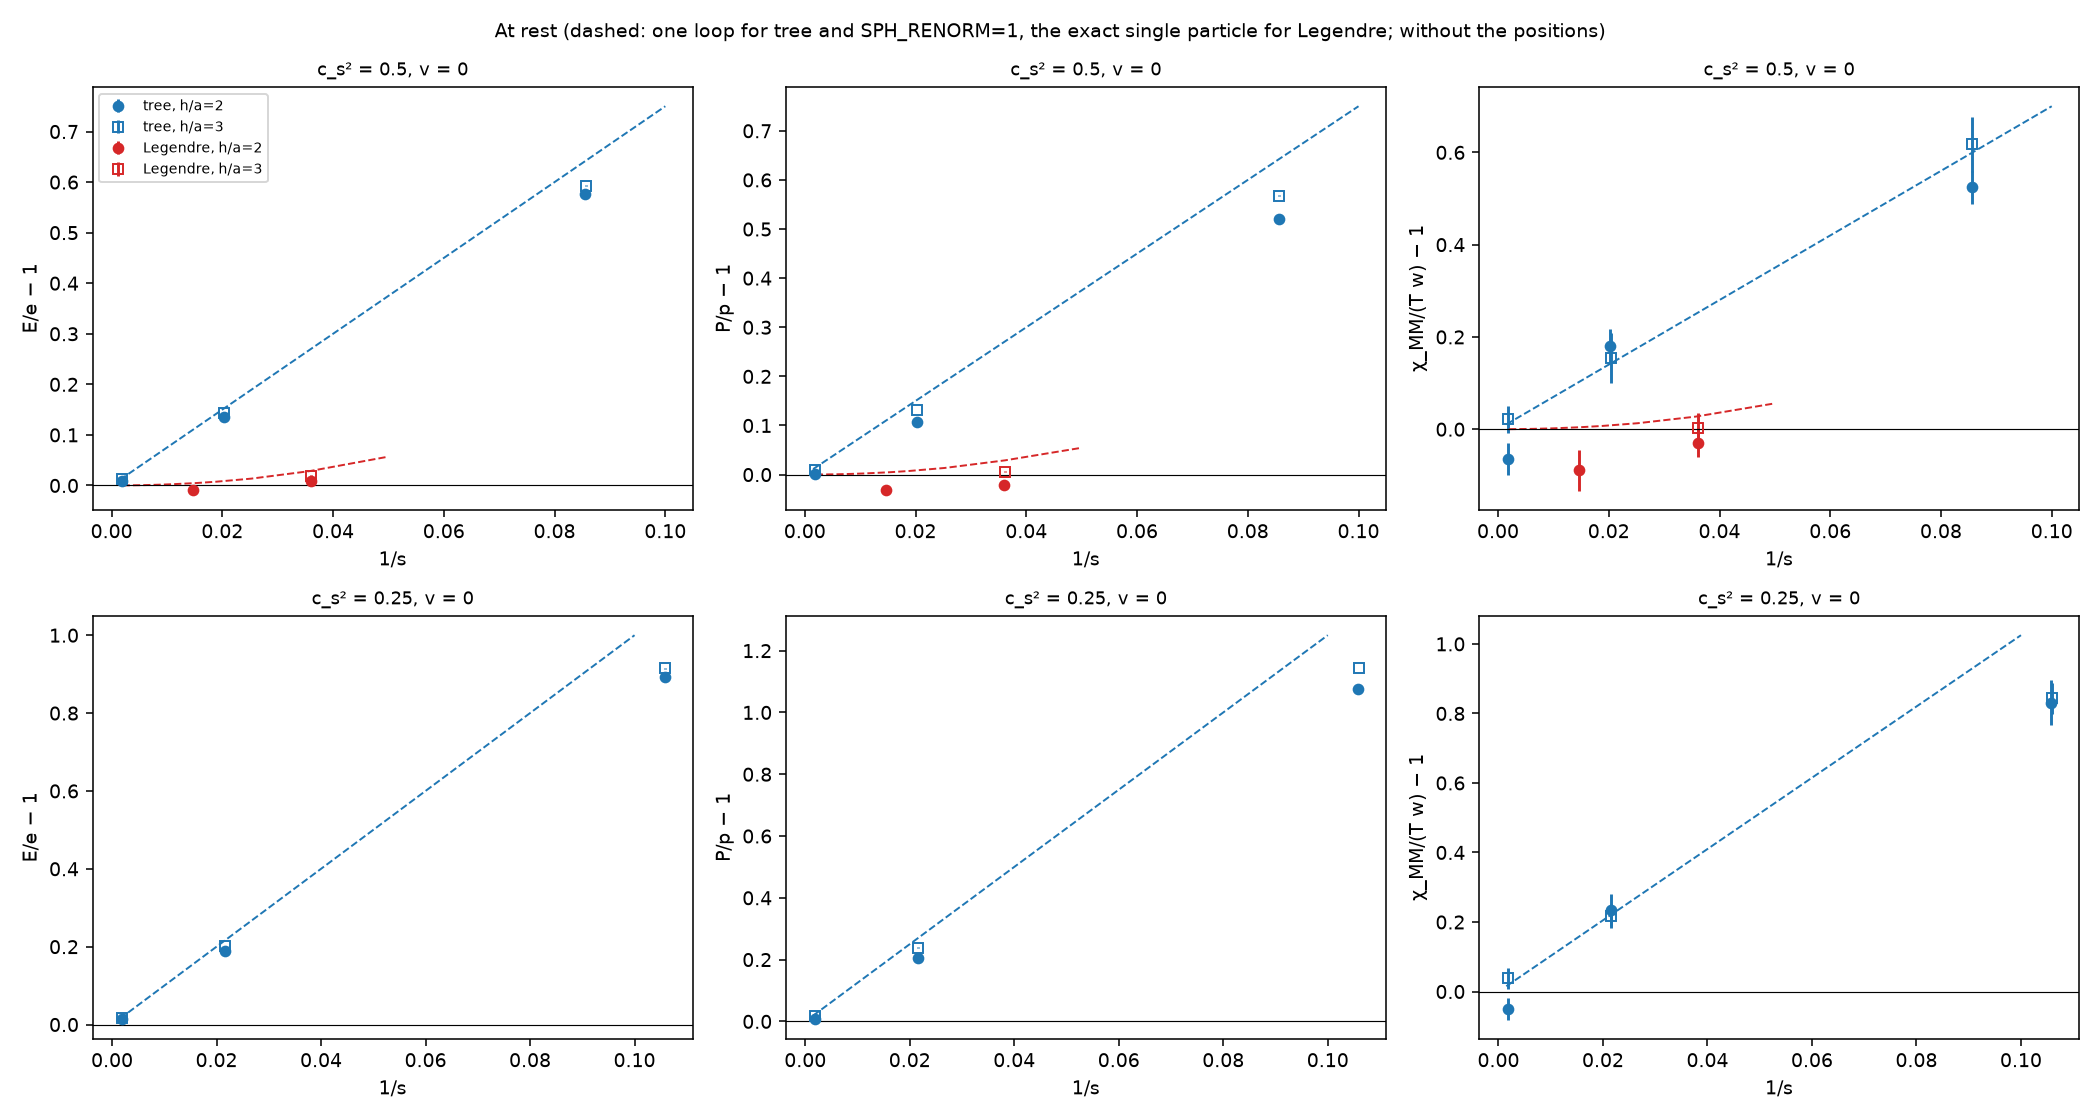
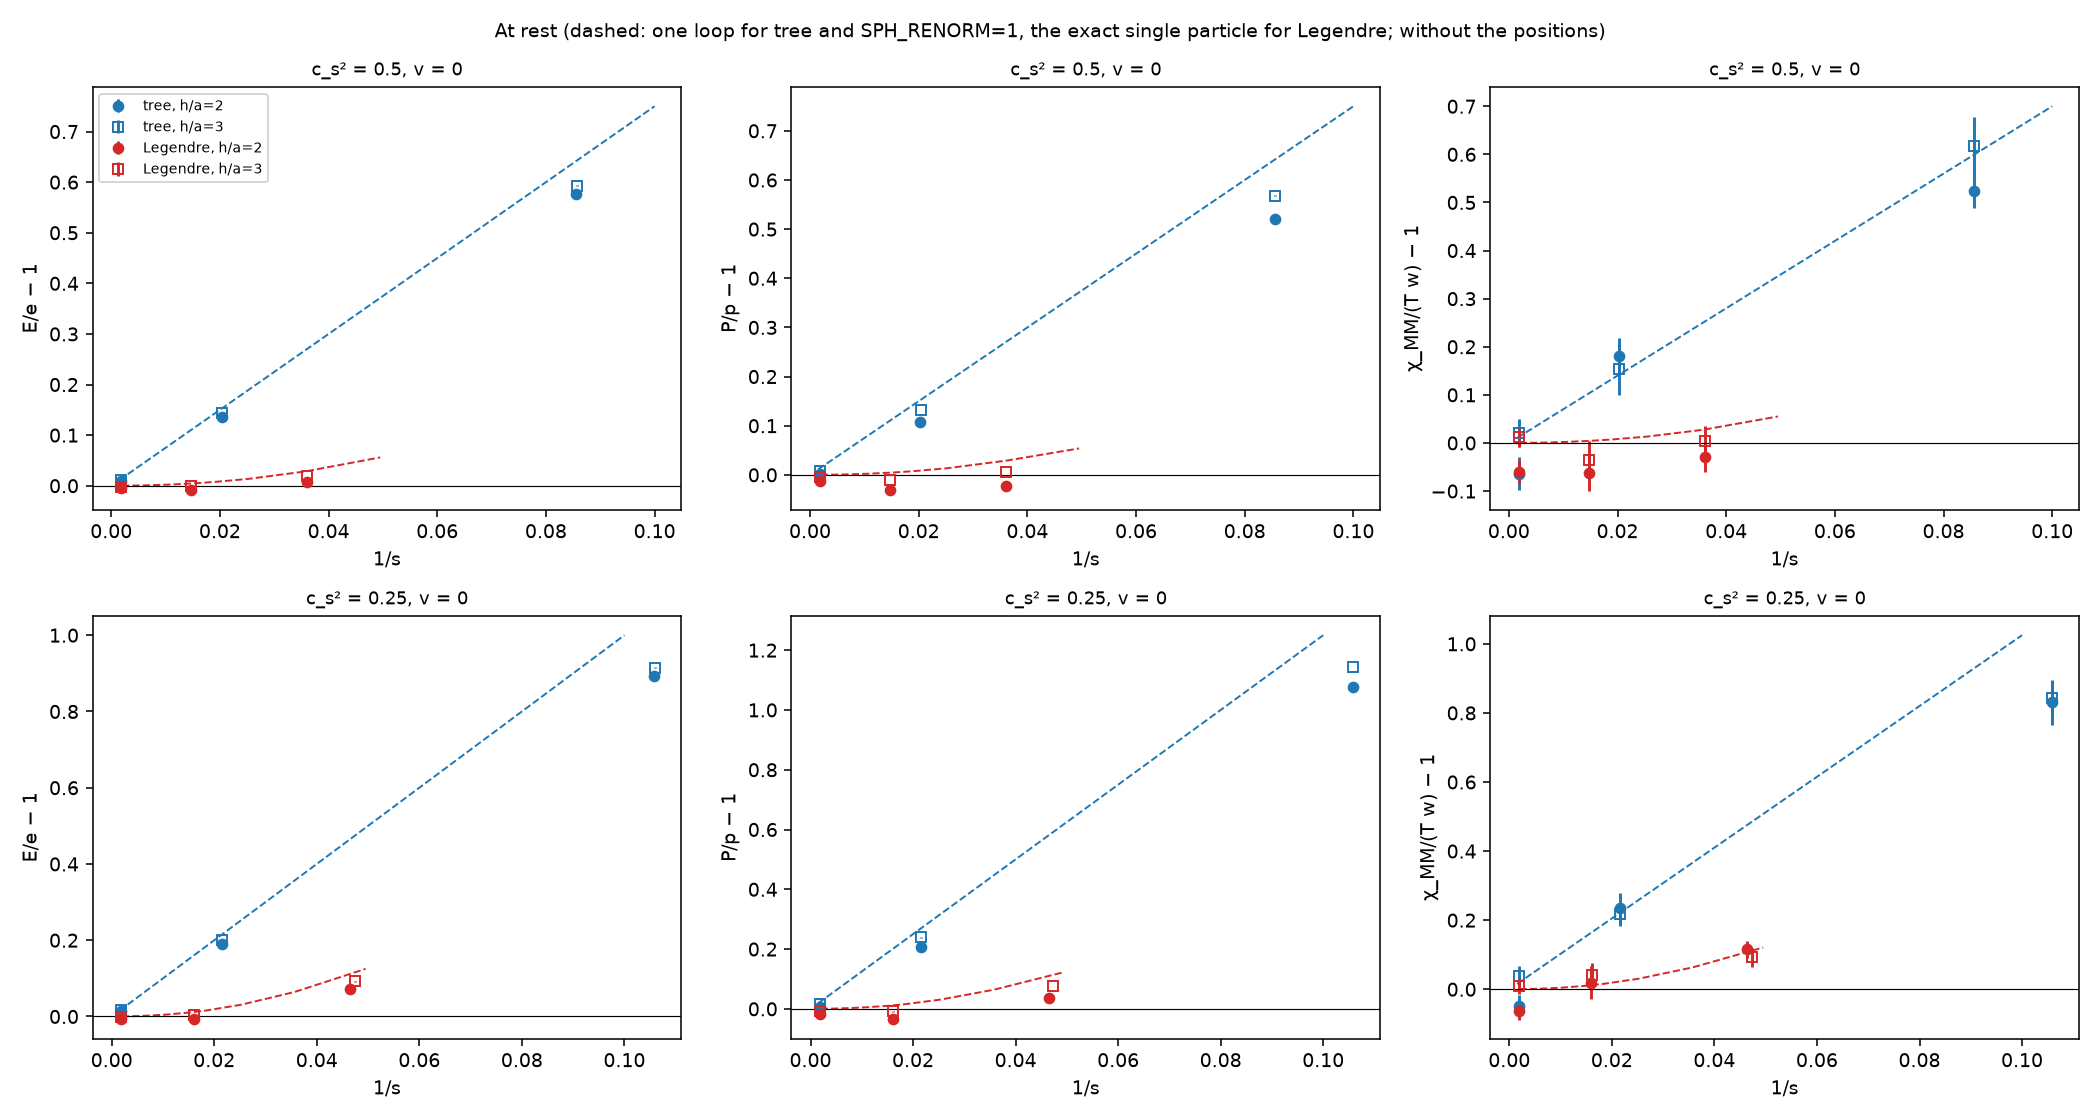
eos_legendre: campaign done; results, table and final figures in legendre_plan.tex; LOG

diff --git a/docs/legendre_plan.tex b/docs/legendre_plan.tex
@@ -463,10 +463,97 @@ stochastic step on, $S_0=10^5$, $t=20$) drifts by $\Delta H/H=+4.8\times10^{-5}$
 
 \subsection{The campaign}
 
-\emph{Running.}  The tree-level and \texttt{SPH\_RENORM=1} lines are final.  Every Legendre line is being rerun with the fixes of
-items (vi) and (vii) (job 61838799, the rest packed on regular nodes, job 61851444); the figures below are regenerated as its runs
-finish, and so far show the Legendre Hamiltonian (red) only at rest, at $c_s^2=1/2$, $s_a=16$ and (partly) $s_a=54$.  The analysis,
-the table against the expectations, and the reading of the figures follow when the rerun is done.
+\paragraph{Runs and cost.}  As planned (\Sect{sec:campaign}): $L=0.45$, 8 seeds of 300 updates per line, 54 lines.  The first submission, job
+61825274 (432 tasks, shared), ran the tree-level and \texttt{SPH\_RENORM=1} lines; they are final.  Its Legendre lines were rerun twice, after the fixes
+(vii) (job 61831354, the 14 lines at $c_s^2=1/4$) and (vi) (all 24 Legendre lines: job 61838799 on the shared QOS, which started only two tasks at a
+time, and job 61852069, the remaining 172 tasks packed on three regular nodes with \nolinkurl{nersc/node.sh}, 18 minutes).  In all about 2.1 node-hours.
+The earlier Legendre output is kept in \texttt{\$SCRATCH/sph/eos\_legendre/old\_*}.
+
+\paragraph{The solves.}  Over the $4.6\times10^{10}$ solves of the Legendre lines, Newton failed to converge 425 times, 415 of them at $c_s^2=1/4$,
+$s_a=16$ (the next most: 3).  Four kept configurations, all at $c_s^2=1/4$, $s_a=16$, $h/a=3$ (three at rest, one in motion), have a particle with no
+state when $E$ is measured ($E=$ NaN, $H$ finite); the per-seed summary of \nolinkurl{examples/eos_measure.jl} is then NaN, so those lines average 6 (at
+rest) and 7 (in motion) of their 8 seeds.  The acceptance is $0.98$--$1.0$ everywhere except $c_s^2=1/4$, $s_a=16$ at rest: $0.95$ ($h/a=2$) and
+$0.89$ ($h/a=3$, seeds $0.78$--$0.94$).
+
+\paragraph{The table.}  For each Legendre line: the measured entropy per particle $s=(1+c_s^2)\sigma/c_s^2$; the measured value and the exact single-particle
+quadrature (\nolinkurl{examples/renorm_quadrature_legendre.py}, interpolated in $1/s$ to the measured $s$; \nolinkurl{docs/figs/legendre_quadrature.csv}),
+which leaves out the positions; $R$ also for \texttt{SPH\_RENORM=1} at the same $s_a$, $h/a$; and two entries of the susceptibility relative to the target,
+with the jackknife error in the last digits.  At $v=0.8$ the pressure column is $T^{yy}/p-1$.  The full table, all lines and entries:
+\nolinkurl{docs/figs/legendre_table.csv}.
+\begin{center}
+\scriptsize
+\resizebox{\linewidth}{!}{\begin{tabular}{cccc c cc cc ccc cc cc}
+\toprule
+$c_s^2$ & $v$ & $s_a$ & $h/a$ & $s$ & \multicolumn{2}{c}{$E/e-1$} & \multicolumn{2}{c}{$P/p-1$} & \multicolumn{3}{c}{$R$} & \multicolumn{2}{c}{$(\partial E/\partial T)_v$} & \multicolumn{2}{c}{$(\partial M/\partial v)_T$}\\
+ & & & & & meas. & quad. & meas. & quad. & meas. & quad. & ren1 & meas. & quad. & meas. & quad. \\
+\midrule
+0.5 & 0 & 16 & 2 & 28 & $+0.008$ & $+0.029$ & $-0.022$ & $+0.029$ & -- & -- & -- & $-0.09(4)$ & $-0.01$ & $-0.03(3)$ & $+0.03$ \\
+0.5 & 0 & 16 & 3 & 28 & $+0.020$ & $+0.029$ & $+0.006$ & $+0.029$ & -- & -- & -- & $-0.07(5)$ & $-0.01$ & $+0.00(3)$ & $+0.03$ \\
+0.5 & 0 & 54 & 2 & 68 & $-0.009$ & $+0.004$ & $-0.032$ & $+0.004$ & -- & -- & -- & $-0.00(5)$ & $-0.00$ & $-0.06(4)$ & $+0.00$ \\
+0.5 & 0 & 54 & 3 & 68 & $-0.001$ & $+0.004$ & $-0.011$ & $+0.004$ & -- & -- & -- & $-0.01(4)$ & $-0.00$ & $-0.04(4)$ & $+0.00$ \\
+0.5 & 0 & 541 & 2 & 561 & $-0.004$ & $+0.000$ & $-0.013$ & $+0.000$ & -- & -- & -- & $-0.02(3)$ & $-0.00$ & $-0.06(2)$ & $+0.00$ \\
+0.5 & 0 & 541 & 3 & 561 & $-0.002$ & $+0.000$ & $-0.005$ & $+0.000$ & -- & -- & -- & $-0.02(3)$ & $-0.00$ & $+0.01(2)$ & $+0.00$ \\
+\hline
+0.5 & 0.8 & 16 & 2 & 28 & $-0.006$ & $+0.045$ & $-0.032$ & $+0.033$ & $+0.0032$ & $+0.0033$ & $+0.0004$ & $-0.01(4)$ & $-0.04$ & $+0.00(5)$ & $-0.05$ \\
+0.5 & 0.8 & 16 & 3 & 28 & $+0.002$ & $+0.045$ & $-0.009$ & $+0.033$ & $+0.0014$ & $+0.0034$ & $-0.0016$ & $+0.02(4)$ & $-0.04$ & $+0.00(3)$ & $-0.05$ \\
+0.5 & 0.8 & 54 & 2 & 68 & $-0.008$ & $+0.005$ & $-0.026$ & $+0.005$ & $+0.0022$ & $+0.0001$ & $+0.0013$ & $+0.03(3)$ & $-0.00$ & $+0.05(3)$ & $-0.00$ \\
+0.5 & 0.8 & 54 & 3 & 68 & $-0.003$ & $+0.005$ & $-0.011$ & $+0.005$ & $+0.0010$ & $+0.0001$ & $-0.0000$ & $-0.01(5)$ & $-0.00$ & $-0.03(4)$ & $-0.00$ \\
+0.5 & 0.8 & 541 & 2 & 561 & $-0.003$ & $+0.000$ & $-0.010$ & $+0.000$ & $+0.0008$ & $+0.0000$ & $+0.0007$ & $-0.02(3)$ & $-0.00$ & $-0.01(3)$ & $-0.00$ \\
+0.5 & 0.8 & 541 & 3 & 561 & $-0.001$ & $+0.000$ & $-0.004$ & $+0.000$ & $+0.0003$ & $+0.0000$ & $+0.0002$ & $-0.01(4)$ & $-0.00$ & $-0.02(4)$ & $-0.00$ \\
+\hline
+0.25 & 0 & 16 & 2 & 22 & $+0.072$ & $+0.111$ & $+0.035$ & $+0.110$ & -- & -- & -- & $-0.02(2)$ & $-0.07$ & $+0.12(2)$ & $+0.11$ \\
+0.25 & 0 & 16 & 3 & 21 & $+0.092$ & $+0.116$ & $+0.076$ & $+0.114$ & -- & -- & -- & $-0.08(3)$ & $-0.07$ & $+0.09(3)$ & $+0.11$ \\
+0.25 & 0 & 54 & 2 & 62 & $-0.007$ & $+0.012$ & $-0.035$ & $+0.012$ & -- & -- & -- & $+0.03(3)$ & $-0.01$ & $+0.02(5)$ & $+0.01$ \\
+0.25 & 0 & 54 & 3 & 62 & $+0.003$ & $+0.012$ & $-0.009$ & $+0.012$ & -- & -- & -- & $+0.01(5)$ & $-0.01$ & $+0.04(3)$ & $+0.01$ \\
+0.25 & 0 & 541 & 2 & 555 & $-0.005$ & $+0.000$ & $-0.017$ & $+0.000$ & -- & -- & -- & $-0.03(2)$ & $-0.00$ & $-0.06(3)$ & $+0.00$ \\
+0.25 & 0 & 541 & 3 & 554 & $-0.002$ & $+0.000$ & $-0.007$ & $+0.000$ & -- & -- & -- & $-0.02(3)$ & $-0.00$ & $+0.01(2)$ & $+0.00$ \\
+\hline
+0.25 & 0.8 & 16 & 2 & 22 & $+0.011$ & $+0.140$ & $-0.021$ & $+0.106$ & $+0.0024$ & $+0.0078$ & -- & $-0.07(3)$ & $-0.08$ & $-0.04(3)$ & $-0.08$ \\
+0.25 & 0.8 & 16 & 3 & 21 & $+0.026$ & $+0.146$ & $+0.012$ & $+0.110$ & $+0.0010$ & $+0.0082$ & -- & $-0.02(4)$ & $-0.08$ & $+0.01(4)$ & $-0.09$ \\
+0.25 & 0.8 & 54 & 2 & 62 & $-0.011$ & $+0.013$ & $-0.034$ & $+0.012$ & $+0.0017$ & $+0.0003$ & -- & $+0.08(2)$ & $-0.01$ & $+0.08(2)$ & $-0.01$ \\
+0.25 & 0.8 & 54 & 3 & 62 & $-0.002$ & $+0.013$ & $-0.012$ & $+0.012$ & $+0.0007$ & $+0.0003$ & -- & $-0.05(2)$ & $-0.01$ & $-0.02(3)$ & $-0.01$ \\
+0.25 & 0.8 & 541 & 2 & 555 & $-0.004$ & $+0.000$ & $-0.013$ & $+0.000$ & $+0.0006$ & $+0.0000$ & -- & $-0.02(3)$ & $-0.00$ & $-0.01(3)$ & $-0.00$ \\
+0.25 & 0.8 & 541 & 3 & 554 & $-0.002$ & $+0.000$ & $-0.005$ & $+0.000$ & $+0.0003$ & $+0.0000$ & -- & $+0.00(4)$ & $-0.00$ & $-0.01(4)$ & $-0.00$ \\
+\bottomrule
+\end{tabular}}
+\end{center}
+
+\paragraph{What agrees with the expectations.}
+\begin{itemize}
+\item The tree level is the one-loop expectation plus the positions, as in \texttt{eos\_renorm}: at $c_s^2=1/2$, $s=11.7$, $E/e-1=0.576$ against
+  $7.5/s=0.64$; $\chi_{MM}/(Tw)-1$ follows $(\tfrac52+k-c_s^2)/s$ (\Fig{fig:legendre_EP}).  The Legendre Hamiltonian removes these $O(1/s)$ terms: at
+  $s_a=16$ its $E/e-1$ is $0.01$--$0.09$ where the tree level's is $0.58$--$0.91$.
+\item The Legendre single particle has a large $O(1/s^2)$ remainder (the quadrature: $E/e-1=+0.029$ at $s=28$, $c_s^2=1/2$, and $+0.11$ at $s=21$,
+  $c_s^2=1/4$); with it, $\chi_{MM}$ at rest agrees with the quadrature at both $c_s^2$ (\Fig{fig:legendre_EP}, last column).
+\item At $s_a=541$ the measured values minus the quadrature are the positions' part, and it is the same for both Hamiltonians: in motion at $c_s^2=1/2$,
+  $h/a=2$, $E/e-1=-0.0031$ (Legendre) and $-0.0033$ (\texttt{SPH\_RENORM=1}), $T^{yy}/p-1=-0.0098$ and $-0.0099$, $R=+0.0008$ and $+0.0007$.  It
+  scales as $1/(\bar nh^2)$: from $h/a=2$ to $3$, $E/e-1$ goes from $-0.0041$ to $-0.0017$ at rest (ratio $2.4$; $(3/2)^2=2.25$), and it hardly depends on
+  $c_s^2$ ($-0.0055$, $-0.0023$ at $c_s^2=1/4$).
+\item The positions do add their own $R$ in motion (the open question of the plan): $R=+0.0006$--$0.0008$ ($h/a=2$) and $+0.0002$--$0.0003$ ($h/a=3$) at
+  $s_a=541$, for all three Hamiltonians and both $c_s^2$, where the single particle gives $10^{-6}$.
+\end{itemize}
+
+\paragraph{What does not.}
+\begin{itemize}
+\item \emph{At small $s$ the positions' part is not a constant and does not add to the single particle.}  At fixed $h/a$ the correction of the positions,
+  $\propto1/(\bar nh^2)$, should not depend on $s_a$.  The measured minus the quadrature does: at $c_s^2=1/2$, at rest, $h/a=2$, $E/e-1$ minus the quadrature
+  is $-0.004$, $-0.014$, $-0.021$ at $s_a=541$, $54$, $16$ ($P/p-1$: $-0.013$, $-0.036$, $-0.051$).  In $R$ the two Hamiltonians part: the measured $R$ minus
+  the single particle (for \texttt{SPH\_RENORM=1} the moving quadrature, \nolinkurl{examples/renorm_quadrature_moving.py}, which agrees with one loop:
+  $-0.0047$ at $s=16$) is, at $h/a=2$, $+0.0009$, $+0.0030$, $+0.0051$ for \texttt{SPH\_RENORM=1} and $+0.0008$, $+0.0021$, $-0.0002$ for Legendre at
+  $s_a=541$, $54$, $16$ ($h/a=3$: $+0.0004$, $+0.0017$, $+0.0031$ and $+0.0003$, $+0.0009$, $-0.0020$).  So at $s_a=16$ the measured $R$ of the Legendre
+  Hamiltonian is its single particle's ($+0.0032$ against $+0.0034$), and that of \texttt{SPH\_RENORM=1} is near zero ($+0.0004$) rather than at one loop
+  ($-0.006$): neither is single particle plus a fixed positions' part.
+\item \emph{$c_s^2=1/4$, $s_a=16$, $v=0.8$.}  The measured $E/e-1$ is $+0.012$ ($h/a=2$) and $+0.026$ ($h/a=3$) where the single particle gives $+0.14$;
+  at rest the difference is $-0.04$ and $-0.02$.  Not understood.  The quadrature there ($s=21$, the edge of its range: it fails at $s\le15$ in motion) may
+  not be reliable; the line also carries the solver's failures and the NaN seed.
+\item \emph{The susceptibility is too noisy to see $O(1/s^2)$.}  The errors are $0.02$--$0.05$; the Legendre entries agree with the quadrature within about
+  $2\sigma$ (\Fig{fig:legendre_chi}), except at $c_s^2=1/4$, $s_a=54$, $h/a=2$, $v=0.8$: $+0.08(2)$ for both entries against $-0.015$, not seen at $h/a=3$
+  ($-0.05(2)$, $-0.02(3)$).  At $s_a=541$ the 28 entries for each $h/a$ (the four entries of the five lines in motion and the two of the four lines at rest, all
+  three Hamiltonians) average $-0.041$ at $h/a=2$ and $-0.012$ at $h/a=3$, with $\chi^2/{\rm dof}=0.5$: a positions' part of the
+  susceptibility of a few per cent, ten times that in $E$, with a ratio close to $(3/2)^2$ (the entries of one run are correlated, so the error of the mean,
+  $\pm0.005$, is optimistic).  The Maxwell relation was not checked.
+\item \emph{$H$ is two-valued at very negative labels} at $c_s^2=1/2$ (item (viii)): it does not affect the campaign's averages, but it is a question for the owner.
+\end{itemize}
 
 \begin{figure}[h]
 \centering
@@ -482,7 +569,7 @@ Dashed: the one-loop expectation for the tree level, and the exact single-partic
 \centering
 \includegraphics[width=\textwidth]{figs/legendre_moving.png}
 \caption{At $v=0.8$: the lab-frame $E/e-1$, $T^{yy}/p-1$, $M/(w\gamma^2v)-1$, and $R=M/(v(E+T^{yy}))-1$ against $1/s$.  Blue: tree
-level; green: \texttt{SPH\_RENORM=1}; red (when finished): the Legendre Hamiltonian.  Dashed in the last column: the one-loop
+level; green: \texttt{SPH\_RENORM=1}; red: the Legendre Hamiltonian.  Dashed in the last column: the one-loop
 $R=-c_s^2(1-v^2)^2/((1-c_s^2v^2)s)$ for the tree level and \texttt{SPH\_RENORM=1}; red: the exact Legendre single particle.}
 \label{fig:legendre_moving}
 \end{figure}

diff --git a/nersc/LOG.md b/nersc/LOG.md
@@ -668,6 +668,17 @@ before going over 20).
   on 3 regular nodes, `node.sh` THREADS=2 (job 61851444); the held array tasks were cancelled when it started.  It failed in 43 s: the
   campaign file is not in the run worktree (committed after 34b8161; give node.sh the main checkout's copy, as the array had it).
   Resubmitted as job **61852069** (-t 1:15, ≤ 3.75 node-hours), tasks 21–192; tasks 1–20 finished on shared.
+- **eos_legendre done (2026-11-23 05:40).**  61852069: 172 tasks in 18 min on 3 nodes (0.92 node-hours).  Campaign total ≈ 2.1 node-hours
+  (61825274 0.88, 61831354 0.24, 61838799 0.04, 61851444 0.04 (failed at start), 61852069 0.92).  All 24 Legendre lines have 8 seeds; 425 Newton
+  failures in 4.6e10 solves (415 at c_s² = 1/4, s_a = 16); 4 kept configurations with E = NaN (c_s² = 1/4, s_a = 16, h/a = 3), which make the
+  per-seed summary NaN: those two lines average 6 and 7 seeds.  Lesson: node.sh needs the campaign file of the main checkout when the run worktree
+  predates it; the shared QOS can sit at 2 running tasks (packing 3 regular nodes took 18 min including the queue wait of 10).
+  Results in docs/legendre_plan.tex, "The campaign" (figures docs/figs/legendre_*.png, table docs/figs/legendre_table.csv).  In short: the Legendre
+  H removes the O(1/s) of the tree level; its single particle keeps a large O(1/s²) (E/e−1 = +0.03 at s = 28, c_s² = 1/2); at s_a = 541 the
+  positions' part is the same for Legendre and SPH_RENORM=1 (E/e−1 −0.004 at h/a = 2, ∝ 1/(n̄h²)) and includes R ≈ +0.0008 in motion; at small s
+  it grows and is not additive (R at s_a = 16 is the Legendre single particle's, +0.0032, and SPH_RENORM=1's is +0.0004 instead of one loop −0.006);
+  c_s² = 1/4, s_a = 16, v = 0.8: E/e−1 ≈ +0.01–0.03 against the quadrature's +0.14, not understood; χ: errors 0.02–0.05, a positions' part ≈ −0.04
+  (h/a = 2), −0.01 (h/a = 3) at s_a = 541.  Open for the owner: H two-valued at s < −5.65 (c_s² = 1/2).
 - **Found while at it — the Legendre H is two-valued at very negative labels** (c_s² = 1/2): for s < −5.65 (independent of V) the curve
   s = const in (T_rel, rapidity) has two segments with det ∂(s,|m|)/∂(T,v) > 0 separated by a fold (det < 0, rapidity ≈ 1.2–1.8), and their
   |m| ranges overlap: two physical states (a hot slow one and a cold fast one, γ ~ 15–65) with the same (s, |m|, V).  At c_s² = 1/4 it is
